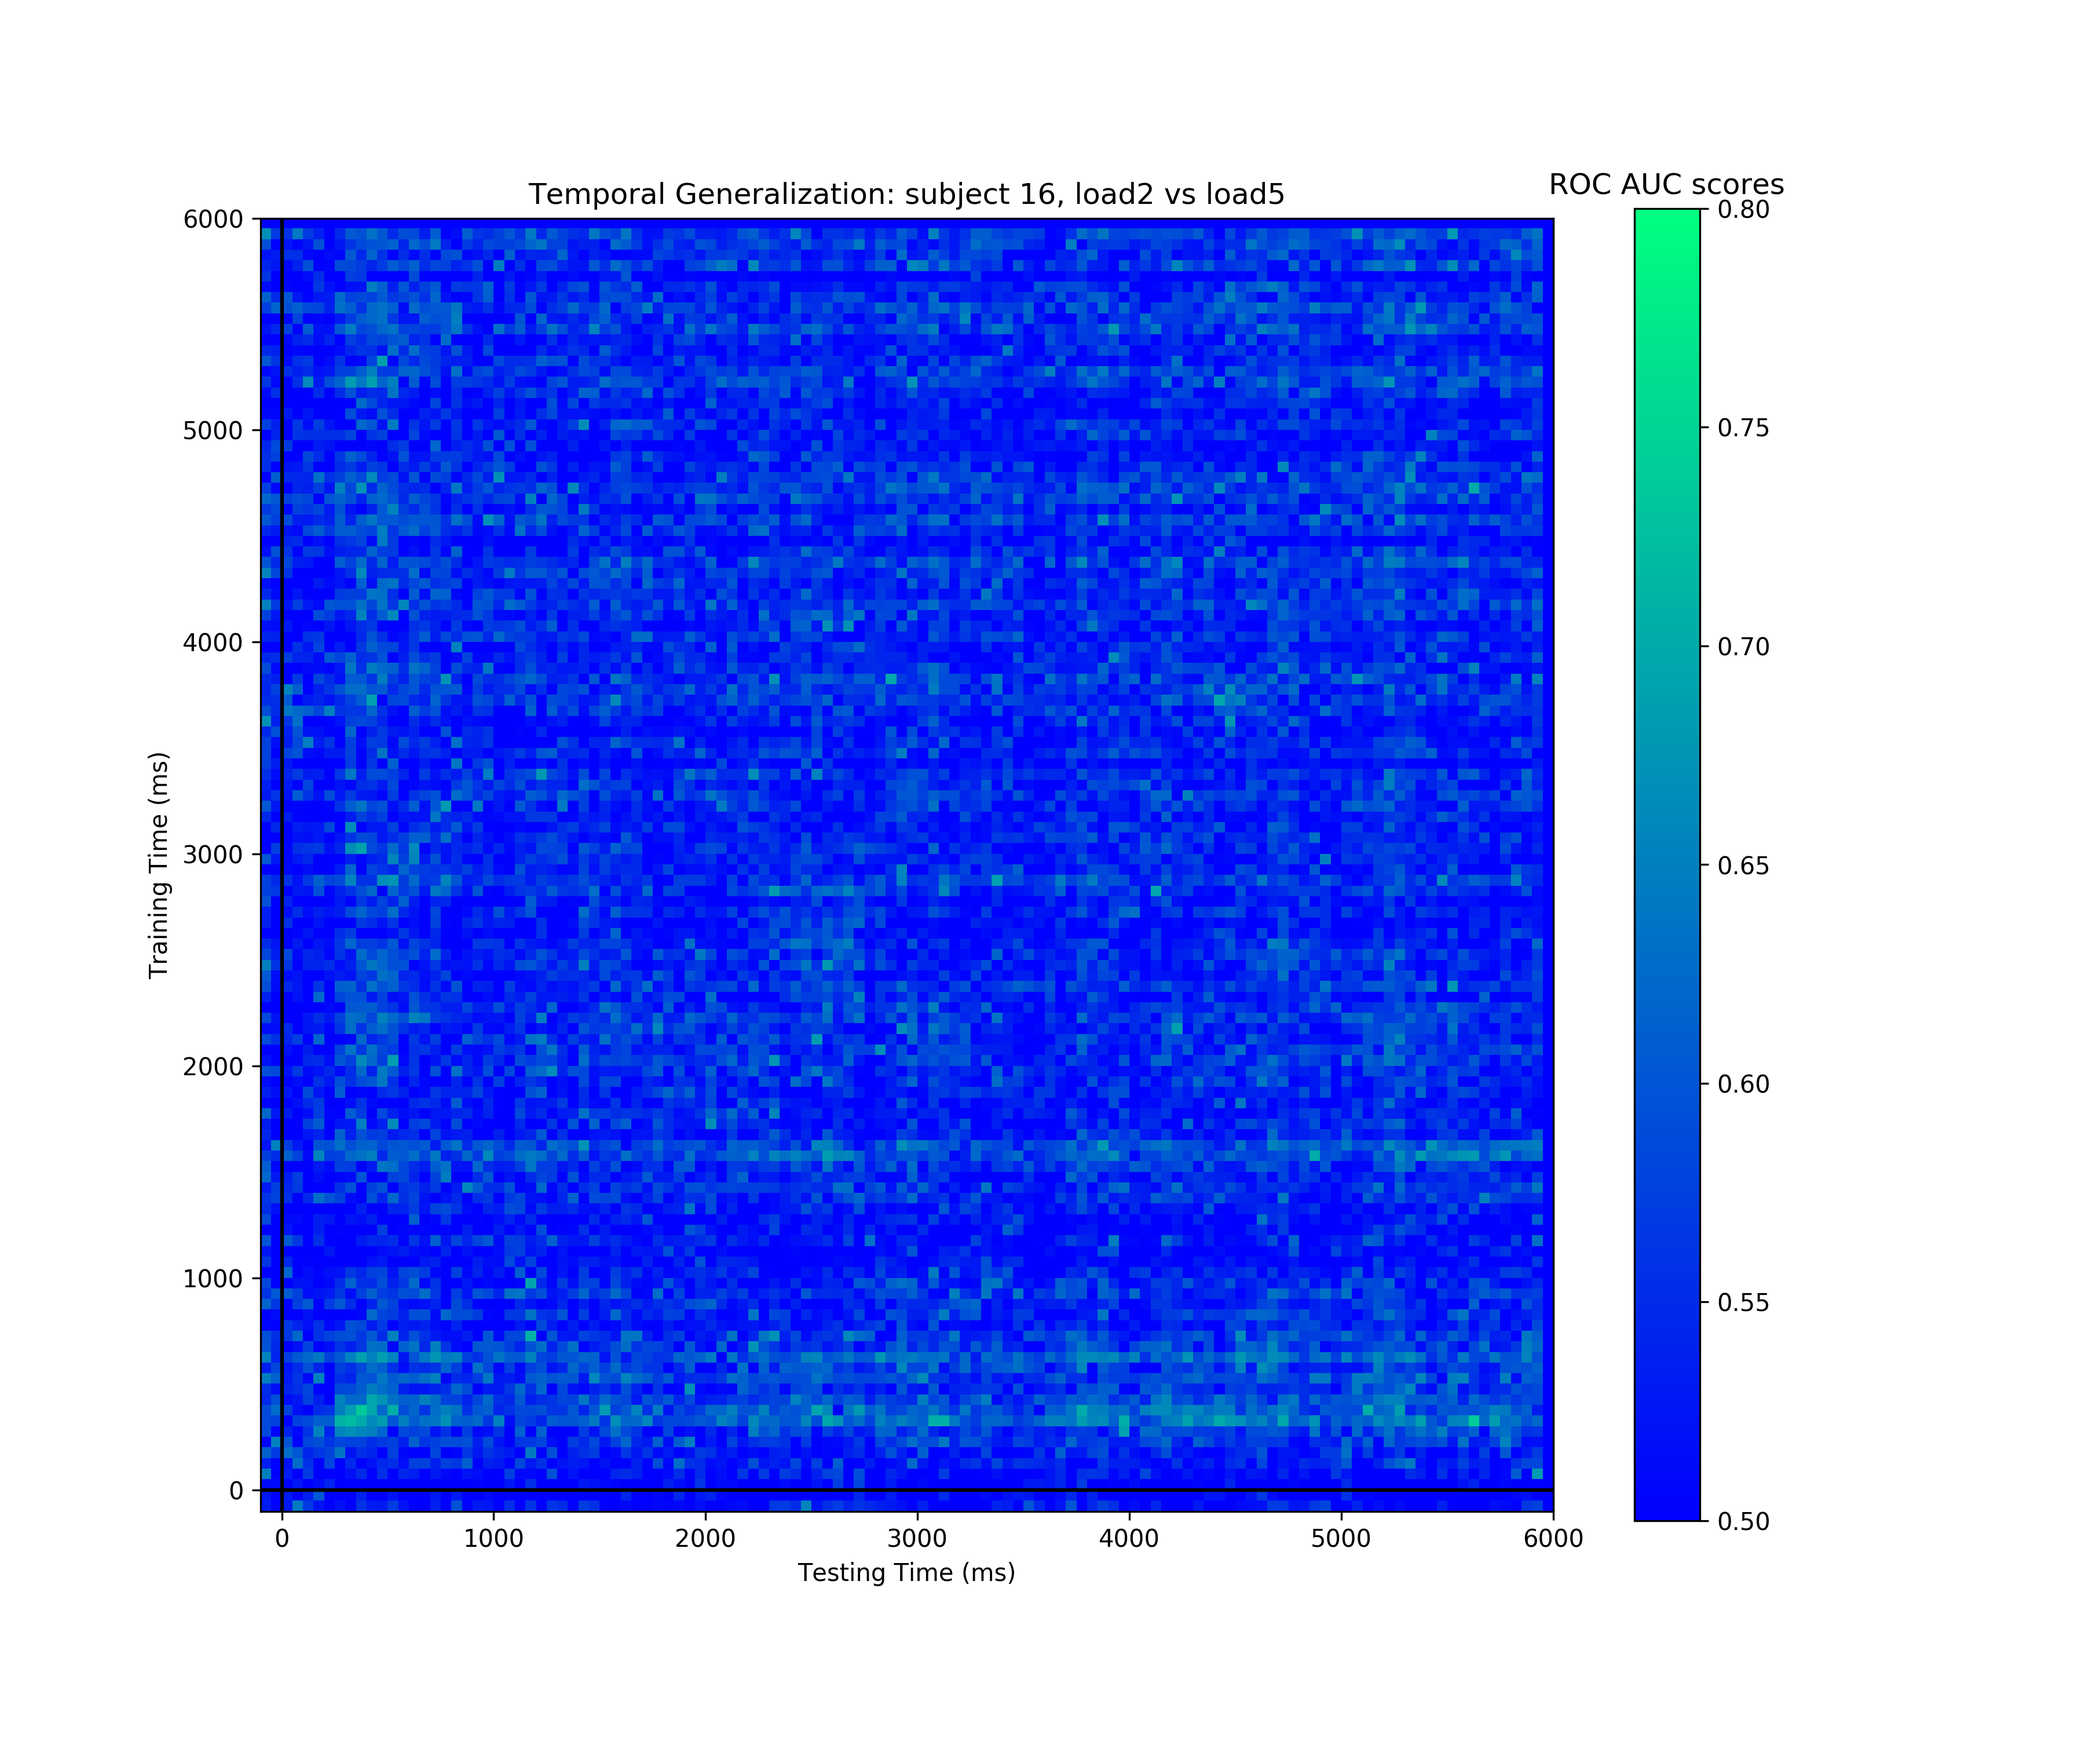
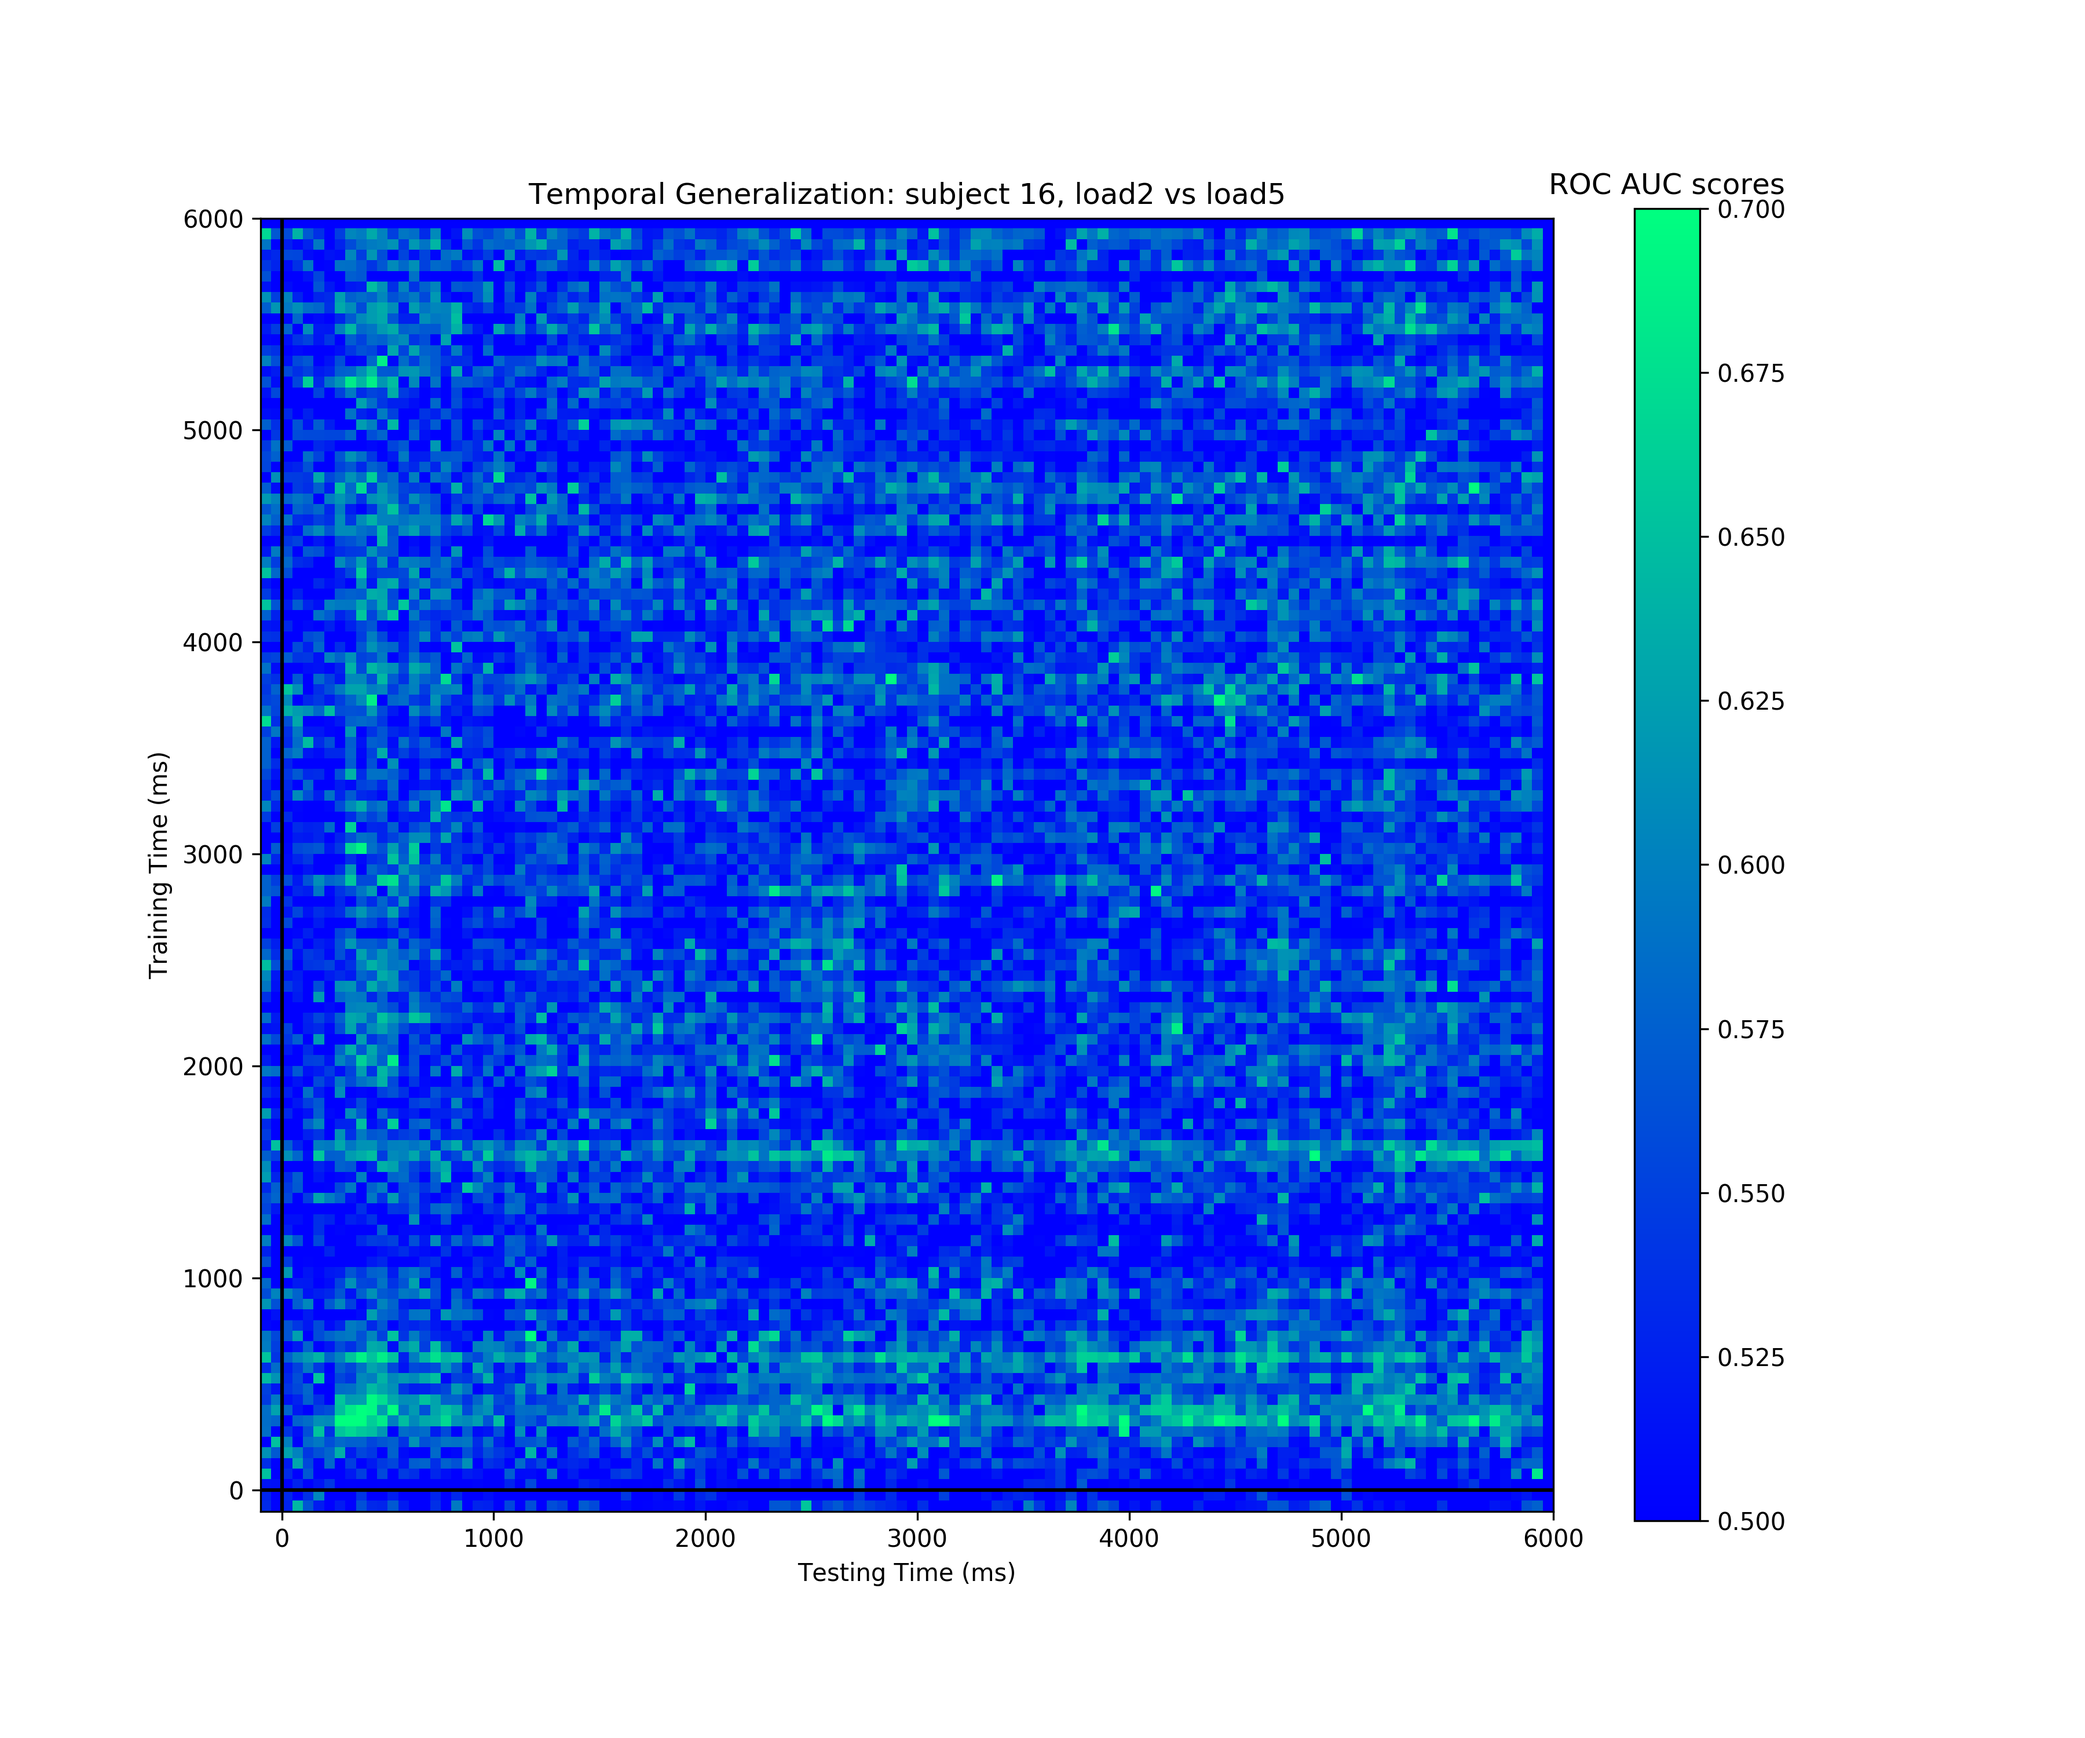
update

Changed region(s): [[0.1244, 0.124, 0.7467, 0.868]]

diff --git a/scripts/working memory delay period (vectorization).py b/scripts/working memory delay period (vectorization).py
@@ -116,7 +116,7 @@ for sub in subs:
     plt.close('all')
     fig, ax = plt.subplots(figsize=(12,10))
     im = ax.imshow(scores.mean(-1),interpolation=None,origin='lower',
-                  cmap='winter',vmin=0.5,vmax=.8,extent=[-100,6000,-100,6000])
+                  cmap='winter',vmin=0.5,vmax=.7,extent=[-100,6000,-100,6000])
     ax.set(xlabel='Testing Time (ms)',ylabel='Training Time (ms)',
           title='Temporal Generalization: subject %d, load2 vs load5'%sub)
     
